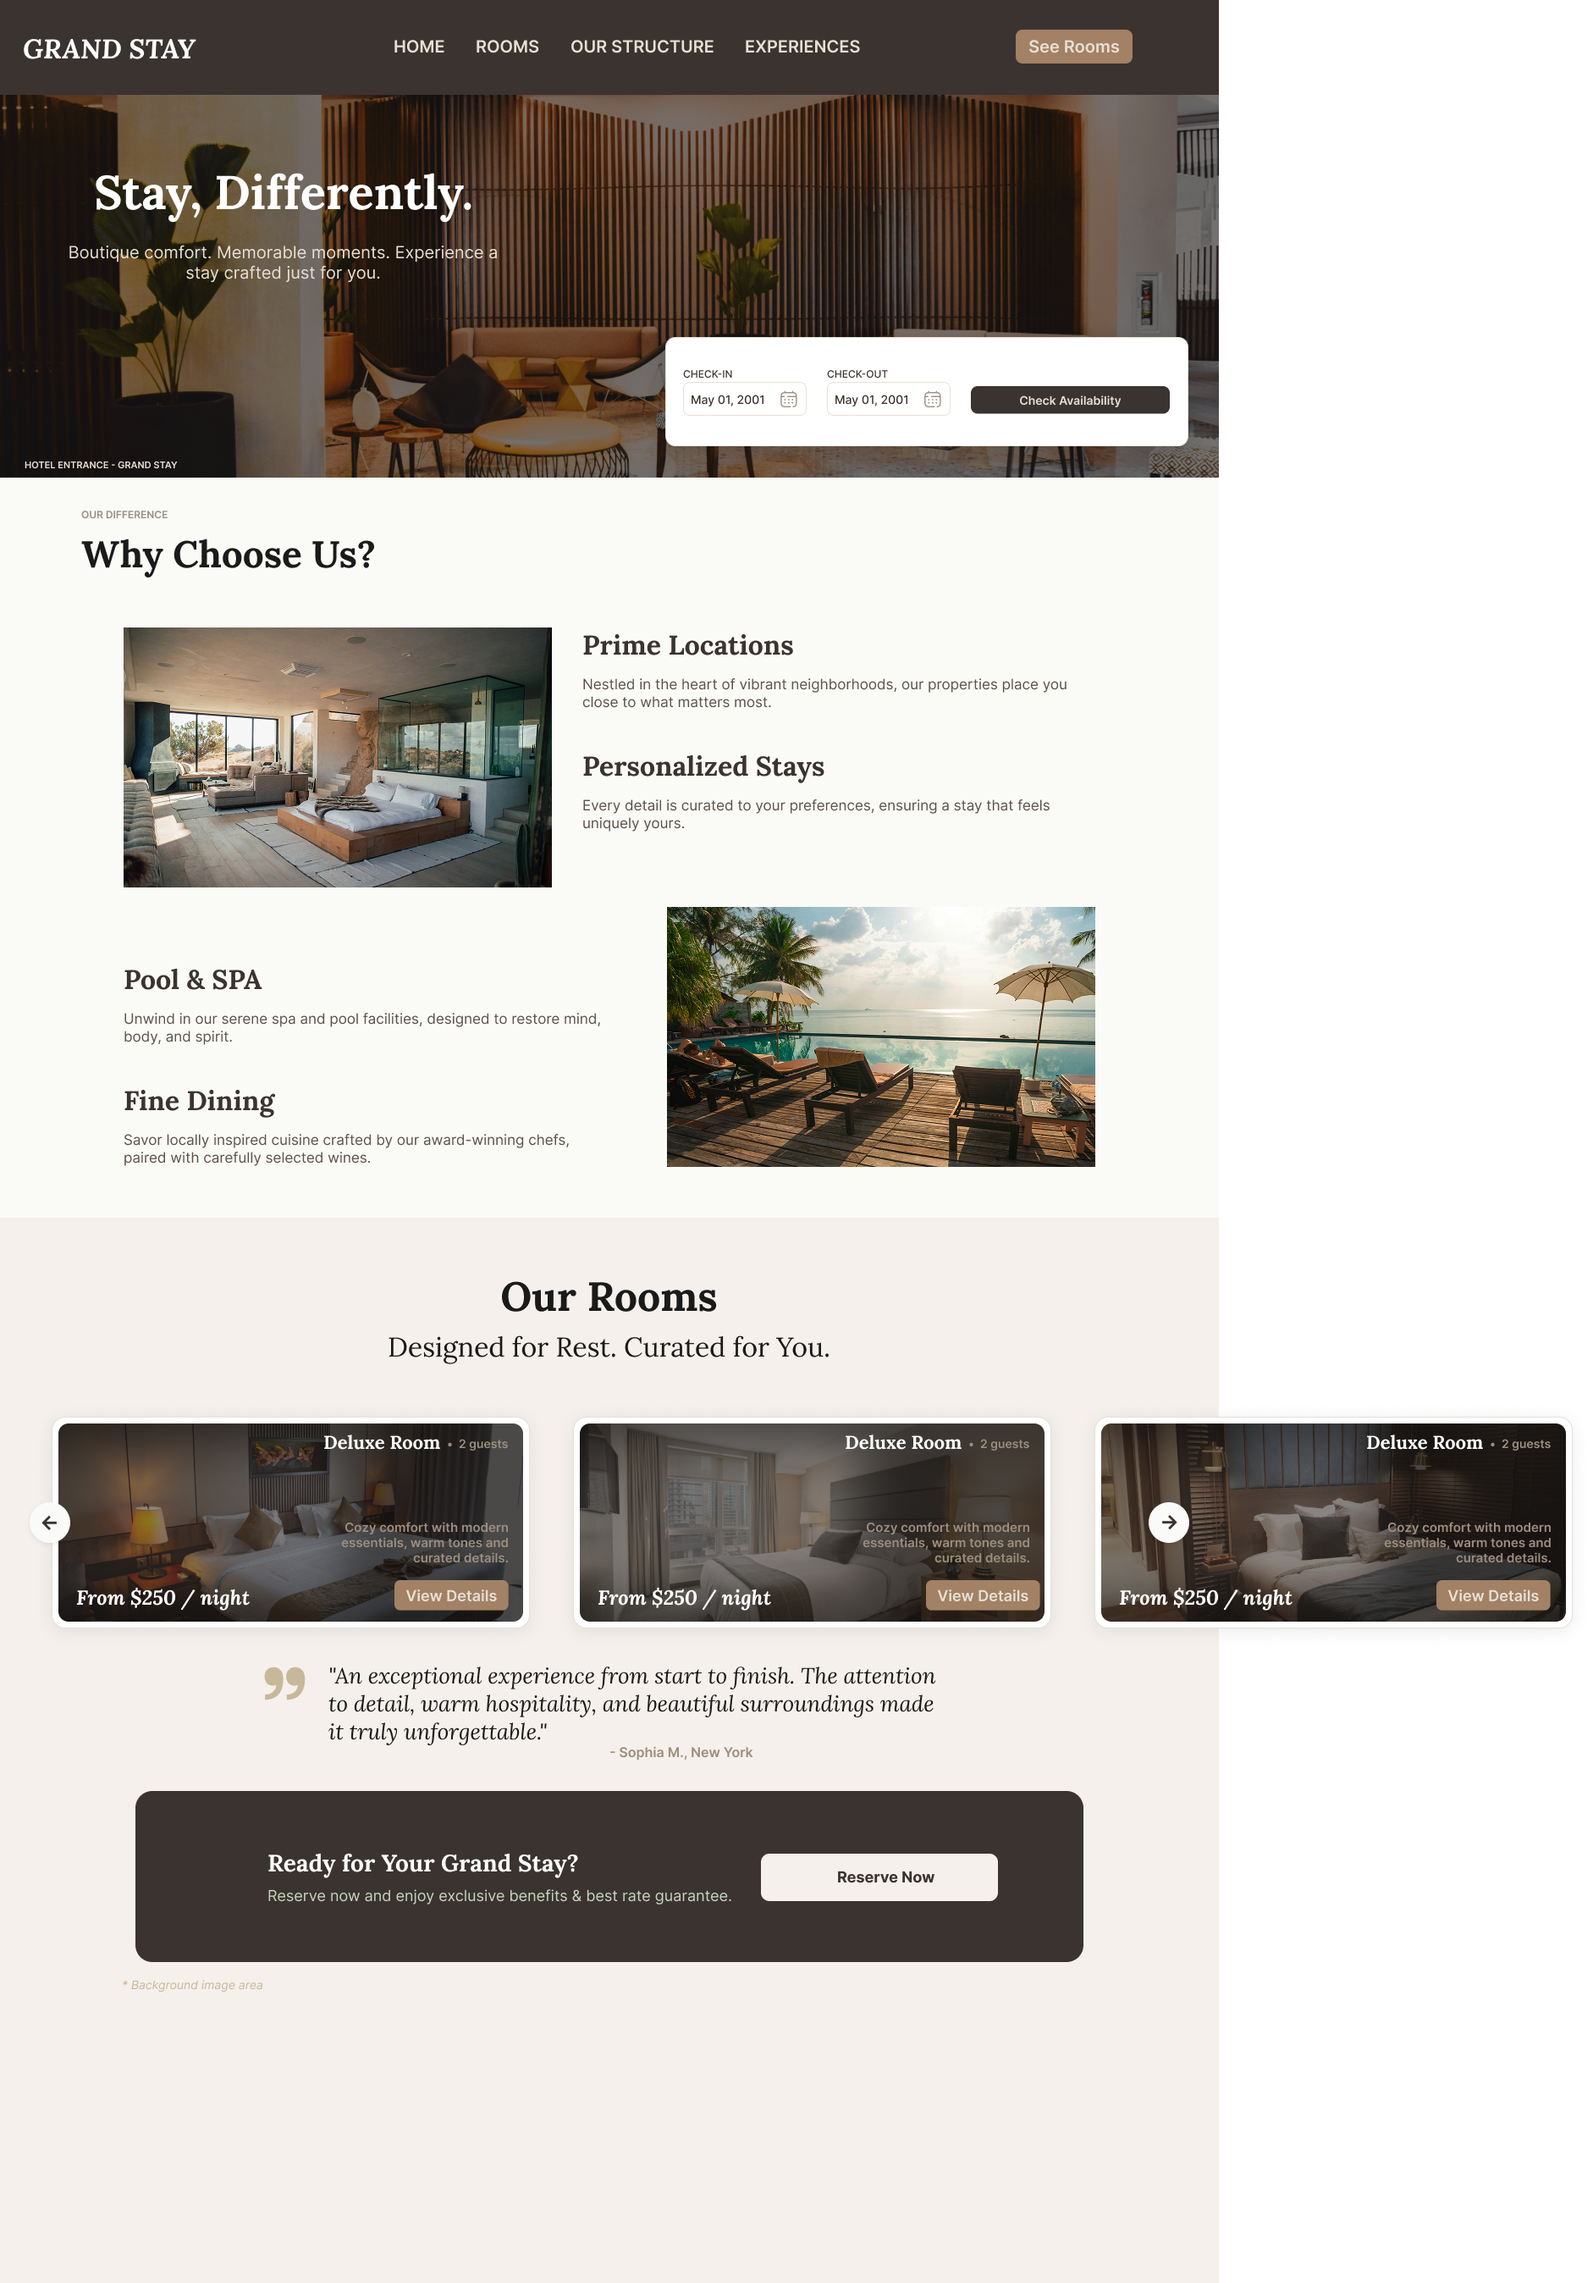
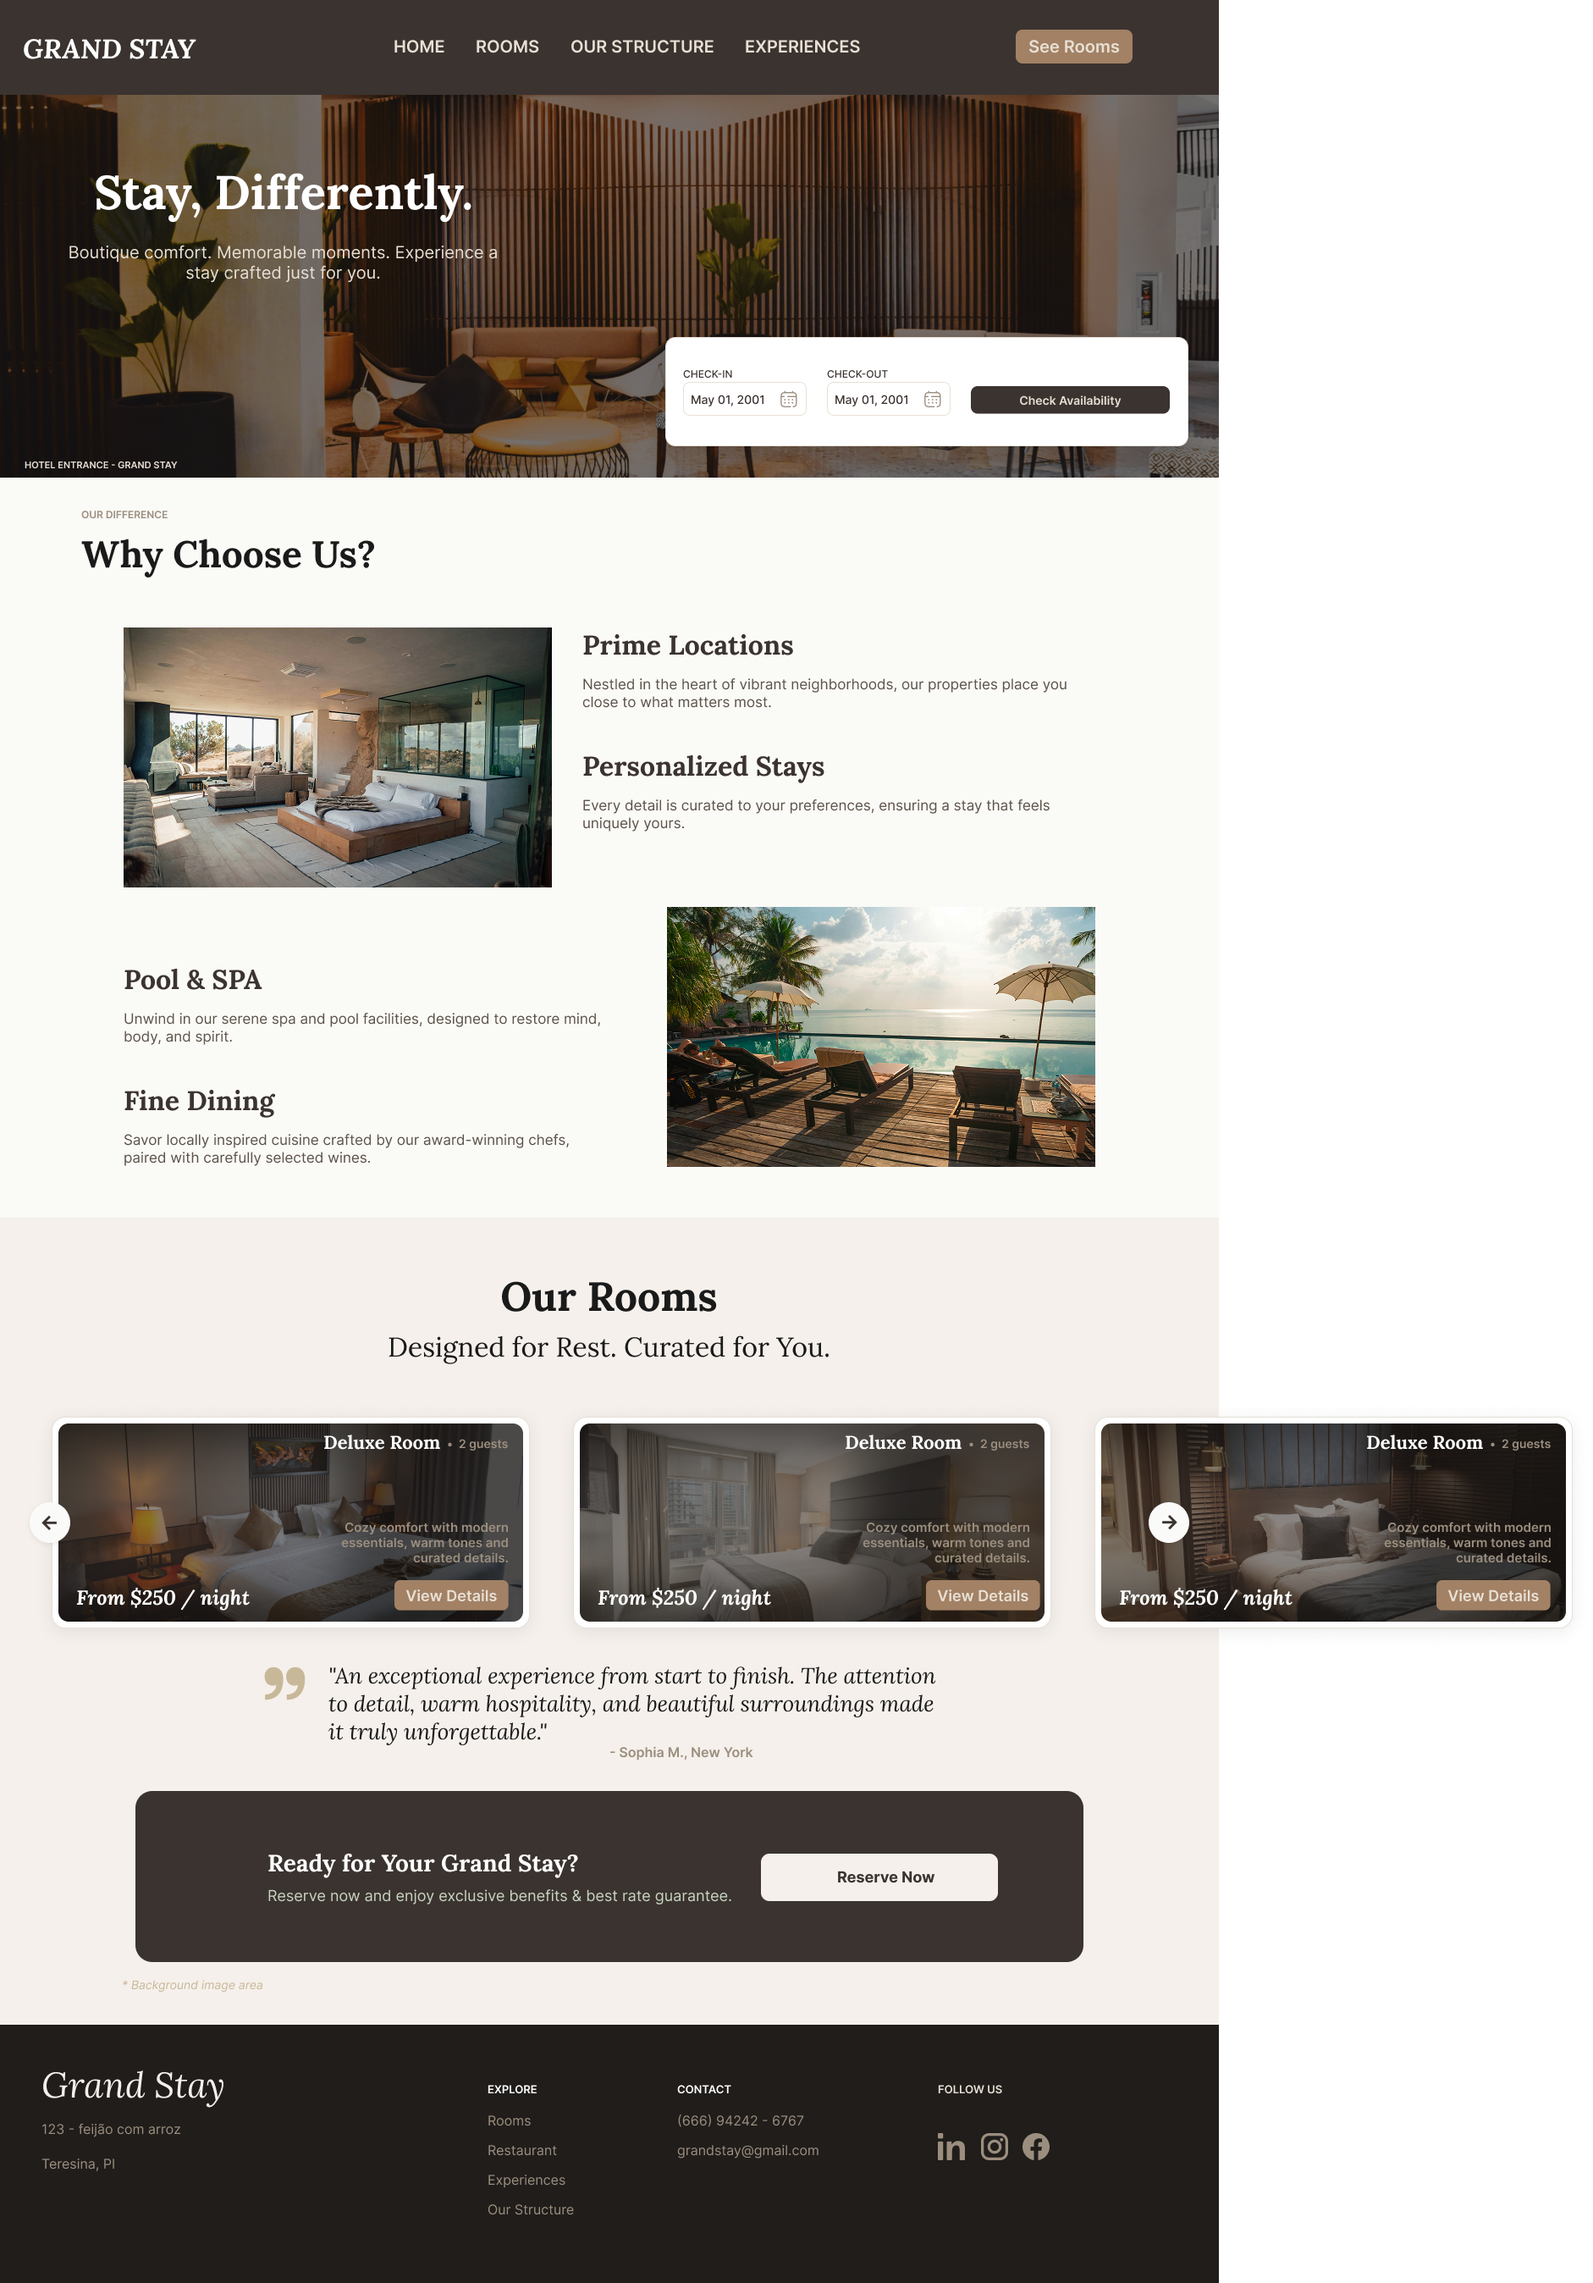
index.html start

Changed region(s): [[0.0, 0.8724, 0.7705, 1.0]]

diff --git a/public/index.html b/public/index.html
@@ -1,0 +1,122 @@
+<!DOCTYPE html>
+<html lang="en">
+<head>
+    <meta charset="UTF-8">
+    <meta name="viewport" content="width=device-width, initial-scale=1.0">
+    <title>Grand Stay Hotel</title>
+</head>
+
+
+
+<body>
+    <header>
+        <div class="logo">
+            <a href="#">GRAND STAY</a>
+        </div>
+        <nav>
+            <ul>
+                <li><a href="#">HOME</a></li>
+                <li><a href="#">ROOMS</a></li>
+                <li><a href="#">OUR STRUCTURE</a></li>
+                <li><a href="#">EXPERIENCES</a></li>
+            </ul>
+        </nav>
+        <div class="header-action">
+            <a href="#" class="btn-primary">See Rooms</a>
+        </div>
+    </header>
+
+
+    <main>
+        <!-- Hero Section -->
+        <section class="hero">
+            <div class="hero-content">
+                <h1>Stay, Differently.</h1>
+                <p>Boutique comfort. Memorable moments. Experience a stay crafted just for you.</p>
+                <span class="image-caption">HOTEL ENTRANCE - GRAND STAY</span>
+            </div>
+
+            <!-- Search Bar Widget -->
+            <div class="booking-bar">
+                <form action="#">
+                    <div class="input-group">
+                        <label for="checkin">CHECK-IN</label>
+                        <input type="date" id="checkin" name="checkin" value="2001-05-01">
+                    </div>
+                    <div class="input-group">
+                        <label for="checkout">CHECK-OUT</label>
+                        <input type="date" id="checkout" name="checkout" value="2001-05-01">
+                    </div>
+                    <button type="submit" class="btn-dark">Check Availability</button>
+                </form>
+            </div>
+        </section>
+
+        <!-- SECTION - Why Choose Us? -->
+        <section class="features">
+            <div class="section-header">
+                <span class="subtitle">OUR DIFFERENCE</span>
+                <h2>Why Choose Us?</h2>
+            </div>
+
+            <!-- Linha 1: Imagem na esquerda, texto na direita -->
+            <div class="feature-row">
+                <div class="feature-image">
+                    <img src="room_01.jpg" alt="Room 01 preview image">
+                </div>
+                <div class="feature-content">
+                    <div class="feature-item">
+                        <h3>Prime Locations</h3>
+                        <p>Nestled in the heart of vibrant neighborhoods, our properties place you close to what matters most.</p>
+                    </div>
+                    <div class="feature-item">
+                        <h3>Personalized Stays</h3>
+                        <p>Every detail is curated to your preferences, ensuring a stay that feels uniquely yours.</p>
+                    </div>
+                </div>
+            </div>
+    </main>
+
+
+    <footer>
+        <div class="footer-container">
+            <!-- Logo & Address -->
+            <div class="footer-col brand">
+                <h2 class="footer-logo">Grand Stay</h2>
+                <address>
+                    123 - Feijão com arroz<br>
+                    Teresina, PI
+                </address>
+            </div>
+
+            <!-- Links Column -->
+            <div class="footer-col links">
+                <h4>EXPLORE</h4>
+                <ul>
+                    <li><a href="#">Rooms</a></li>
+                    <li><a href="#">Restaurant</a></li>
+                    <li><a href="#">Experiences</a></li>
+                    <li><a href="#">Our Structure</a></li>
+                </ul>
+            </div>
+
+            <!-- Contact Column -->
+            <div class="footer-col contact">
+                <h4>CONTACT</h4>
+                <p>(666) 94242 - 6767</p>
+                <p><a href="mailto:grandstay@gmail.com">grandstay@gmail.com</a></p>
+            </div>
+
+            <!-- Social Media Column -->
+            <div class="footer-col social">
+                <h4>FOLLOW US</h4>
+                <div class="social-icons">
+                    <a href="#" aria-label="LinkedIn">IN</a>
+                    <a href="#" aria-label="Instagram">IG</a>
+                    <a href="#" aria-label="Facebook">FB</a>
+                </div>
+            </div>
+        </div>
+    </footer>
+</body>
+</html>
